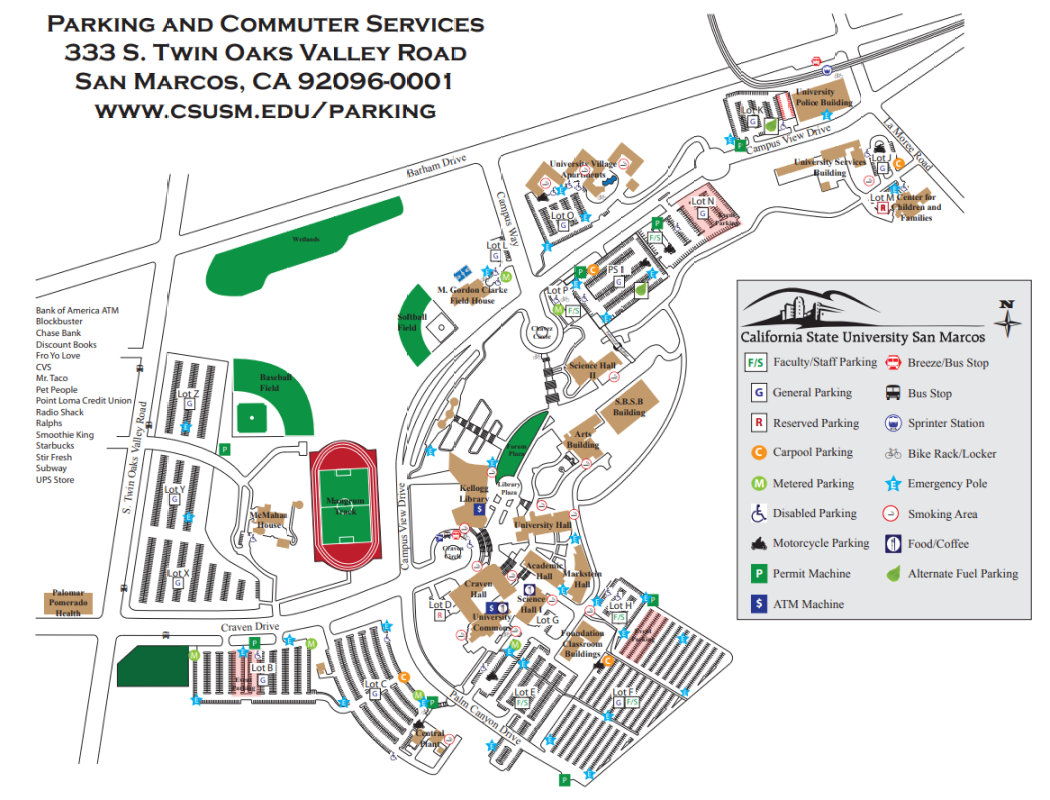
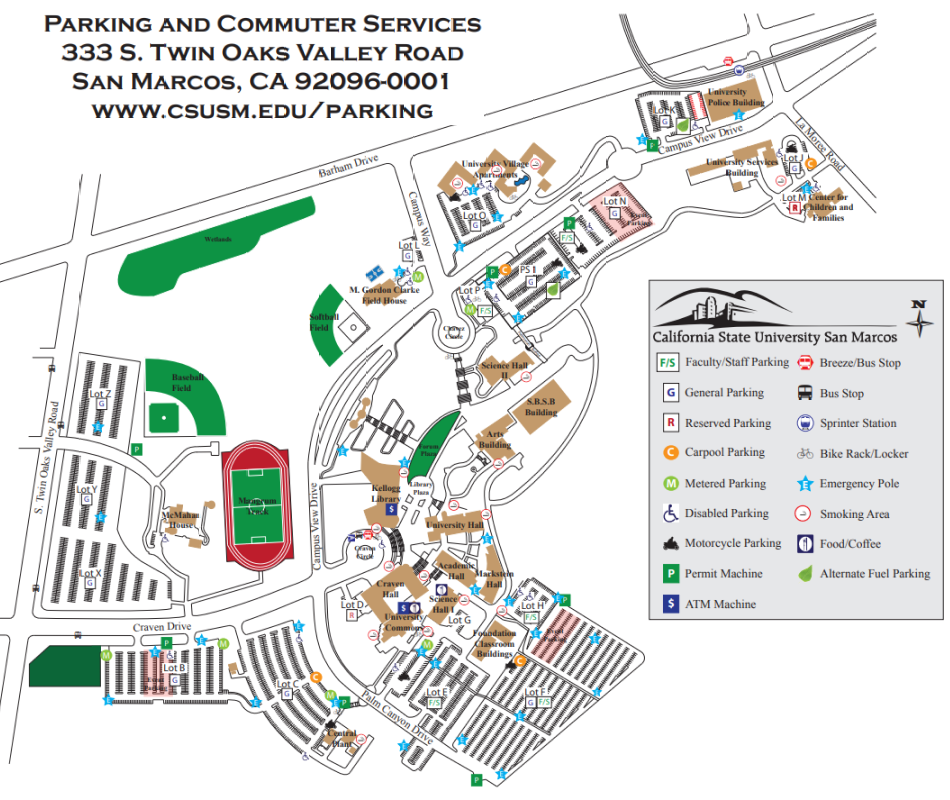
finishing the current UI

diff --git a/main.h b/main.h
@@ -3,9 +3,11 @@
 #define MAIN_H
 #include "WidgetComposite.h"
 #include "wx/wx.h"
+#include "wx/event.h"
 #include <string>
 #include <vector>
 #include <iostream>
+
 
 using namespace std;
 
@@ -43,24 +45,36 @@ private:
 	}
 	void buildParkingMap()
 	{
-		
 		main::SetMaxSize(wxSize(1200, 830));
 		main::SetMinSize(wxSize(1200, 830));
 		main::SetSize(1200, 830);
+		buildSidePanel();
 		parkingPicHandler = new wxPNGHandler;
 		wxImage::AddHandler(parkingPicHandler);
-		ParkingPic = new wxStaticBitmap(this, wxID_ANY, wxBitmap("images/parking-map.PNG", wxBITMAP_TYPE_PNG), wxPoint(150, 00), wxSize(1050, 800));
-		parkinglotIcon.push_back(new wxBitmapButton(this, 1002, wxBitmap("images/mapmarker.PNG", wxBITMAP_TYPE_PNG),wxPoint(320,350), wxSize(41,50), wxBG_STYLE_TRANSPARENT));
+		ParkingPic = new wxStaticBitmap(this, wxID_ANY, wxBitmap("images/parking-map.PNG", wxBITMAP_TYPE_PNG), wxPoint(250, 00), wxSize(950, 800));
+		parkinglotIcon.push_back(new wxBitmapButton(this, 1002, wxBitmap("images/mapmarker.PNG", wxBITMAP_TYPE_PNG),wxPoint(330,355), wxSize(41,50), wxBG_STYLE_TRANSPARENT));
 		parkinglotIcon.push_back(new wxBitmapButton(this, 1003, wxBitmap("images/mapmarker.PNG", wxBITMAP_TYPE_PNG), wxPoint(320, 450), wxSize(41, 50), wxBG_STYLE_TRANSPARENT));
 		parkinglotIcon.push_back(new wxBitmapButton(this, 1004, wxBitmap("images/mapmarker.PNG", wxBITMAP_TYPE_PNG), wxPoint(320, 550), wxSize(41, 50), wxBG_STYLE_TRANSPARENT));
-		parkinglotIcon.push_back(new wxBitmapButton(this, 1005, wxBitmap("images/mapmarker.PNG", wxBITMAP_TYPE_PNG), wxPoint(380, 620), wxSize(41, 50), wxBG_STYLE_TRANSPARENT));
+		parkinglotIcon.push_back(new wxBitmapButton(this, 1005, wxBitmap("images/mapmarker.PNG", wxBITMAP_TYPE_PNG), wxPoint(395, 630), wxSize(41, 50), wxBG_STYLE_TRANSPARENT));
+		parkinglotIcon.push_back(new wxBitmapButton(this, 1006, wxBitmap("images/mapmarker.PNG", wxBITMAP_TYPE_PNG), wxPoint(520, 660), wxSize(41, 50), wxBG_STYLE_TRANSPARENT));
+		parkinglotIcon.push_back(new wxBitmapButton(this, 1007, wxBitmap("images/mapmarker.PNG", wxBITMAP_TYPE_PNG), wxPoint(660, 660), wxSize(41, 50), wxBG_STYLE_TRANSPARENT));
+		parkinglotIcon.push_back(new wxBitmapButton(this, 1008, wxBitmap("images/mapmarker.PNG", wxBITMAP_TYPE_PNG), wxPoint(770, 660), wxSize(41, 50), wxBG_STYLE_TRANSPARENT));
+		parkinglotIcon.push_back(new wxBitmapButton(this, 1009, wxBitmap("images/mapmarker.PNG", wxBITMAP_TYPE_PNG), wxPoint(770, 560), wxSize(41, 50), wxBG_STYLE_TRANSPARENT));
+		parkinglotIcon.push_back(new wxBitmapButton(this, 1010, wxBitmap("images/mapmarker.PNG", wxBITMAP_TYPE_PNG), wxPoint(760, 250), wxSize(41, 50), wxBG_STYLE_TRANSPARENT));
+		parkinglotIcon.push_back(new wxBitmapButton(this, 1011, wxBitmap("images/mapmarker.PNG", wxBITMAP_TYPE_PNG), wxPoint(700, 190), wxSize(41, 50), wxBG_STYLE_TRANSPARENT));
 		for (int i = 0; i < parkinglotIcon.size(); i++)
 		{
 			parkinglotIcon[i]->Raise();
 			parkinglotIcon[i]->SetName(lotReferences[i]);
 			parkinglotIcon[i]->Bind(wxEVT_COMMAND_BUTTON_CLICKED, &main::OnLotClick, this);
 		}
+	}
+	void buildSidePanel()
+	{
+		for (int i = 0; i < lotReferences.size(); i++)
+		{
 
+		}
 	}
 	// building the popup lot frame based on the point of the button
 	void buildParkingLotDisplay(wxPoint point,wxString wxName)
@@ -69,13 +83,30 @@ private:
 		lot_frame->Show();
 		lot_frame->SetWindowStyle(wxSTAY_ON_TOP);
 		lotText = "Selected parking lot : " + wxName;
-		LotInfoText = new wxStaticText(lot_frame, wxID_ANY,lotText, wxPoint(100, 40), wxSize(300, 30));
-		xButton = new wxButton(lot_frame, 2, "X", wxPoint(278,0), wxSize(20, 20));
-		timeHourOptions = new wxComboBox(lot_frame, wxID_ANY, "0",wxPoint(100,200),wxSize(70,30));
-		timeHourOptions->Set(timeHourList);
-		timeMinuteOptions = new wxComboBox(lot_frame, wxID_ANY, "0", wxPoint(200, 200), wxSize(70, 30));
-		timeMinuteOptions->Set(timeMinuteList);
-		reservationConfirm = new wxButton(lot_frame, wxID_ANY, "Reserve Spot", wxPoint(75, 240), wxSize(150, 50));
+		// fix this later
+		xButton = new wxButton(lot_frame, 2, "X", wxPoint(278, 0), wxSize(20, 20));
+		HeaderHandlerPNG = new wxPNGHandler;
+		wxImage::AddHandler(HeaderHandlerPNG);
+		headerBG = new wxStaticBitmap(lot_frame, wxID_ANY, wxBitmap("images/headerBG.PNG", wxBITMAP_TYPE_PNG), wxPoint(00, 00), wxSize(278, 20));
+		LotInfoText = new wxStaticText(lot_frame, wxID_ANY, lotText, wxPoint(100, 40), wxSize(300, 50));
+		spotsTextField = new wxStaticText(lot_frame, wxID_ANY, buildAvailableSPots(wxName), wxPoint(30, 90), wxSize(300, 30));
+		if (checkAvailableSpots(availableSpots))
+		{
+			hourText = new wxStaticText(lot_frame, wxID_ANY, "Hours", wxPoint(80, 160), wxSize(50, 20));
+			minuteText = new wxStaticText(lot_frame, wxID_ANY, "Minutes", wxPoint(185, 160), wxSize(50, 20));
+			timeHourOptions = new wxComboBox(lot_frame, wxID_ANY, "1", wxPoint(80, 180), wxSize(70, 30));
+			timeHourOptions->Set(timeHourList);
+			timeHourOptions->SetLabel("1");
+			timeMinuteOptions = new wxComboBox(lot_frame, wxID_ANY, "0", wxPoint(180, 180), wxSize(70, 30));
+			timeMinuteOptions->Set(timeMinuteList);
+			timeMinuteOptions->SetLabel("0");
+			reserveReminder = new wxStaticText(lot_frame, wxID_ANY, "         Set a time to reserve a spot", wxPoint(40, 210), wxSize(200, 30));
+			reservationConfirm = new wxButton(lot_frame, 3, "Reserve Spot", wxPoint(75, 240), wxSize(150, 50));
+		}
+		else
+		{
+			noReserveText = new wxStaticText(lot_frame, wxID_ANY, "There are no reserved spots left for \n                        Lot " + wxName, wxPoint(50, 180), wxSize(300, 70));
+		}
 
 	}
 // Login screen widgets
@@ -93,9 +124,17 @@ public:
 public:
 	wxFrame* lot_frame = nullptr;
 	wxString lotText;
+	wxString pspotText;
+	wxString reservedSpots;
+	wxString availableSpots;
+	wxStaticBitmap* headerBG = nullptr;
+	wxStaticText* noReserveText = nullptr;
+	wxStaticText* reserveReminder = nullptr;
+	wxStaticText* hourText = nullptr;
+	wxStaticText* minuteText = nullptr;
 	wxStaticText* LotInfoText = nullptr;
 	wxStaticText* numOpenSpots = nullptr;
-	wxStaticText* spotsText = nullptr;
+	wxStaticText* spotsTextField = nullptr;
 	wxStaticText* reservedTime = nullptr;
 	wxComboBox* timeHourOptions = nullptr;
 	wxComboBox* timeMinuteOptions = nullptr;
@@ -103,11 +142,13 @@ public:
 	vector<wxString> timeMinuteList = {"0","15","30","45"};
 	wxButton* reservationConfirm = nullptr;
 	wxButton* xButton = nullptr;
-	vector<wxString> lotReferences = { "A","B","C","D","E","F","G","H" };
+	vector<wxString> lotReferences = { "A","B","C","D","E","F","G","H","I","J"};
+
 //parking map widgets
 public:
 	wxPNGHandler* parkingPicHandler = nullptr;
 	wxPNGHandler* parkingLotHandler = nullptr;
+	wxPNGHandler* HeaderHandlerPNG = nullptr;
 	vector<wxBitmapButton*>parkinglotIcon;
 	wxStaticBitmap* ParkingPic = nullptr;
 
@@ -123,7 +164,29 @@ public:
 		LPCWSTR sw = stemp.c_str();
 		OutputDebugString(sw);
 	}
+	bool checkAvailableSpots(wxString availableSpots)
+	{
+		if (wxAtoi(availableSpots) > 0)
+		{
+			return true;
+		}
+		else
+		{
+			return false;
+		}
+
+	}
+	wxString buildAvailableSPots(wxString wxLotName)
+	{
+		//replace function here to get lot information
+		reservedSpots = "30";
+		availableSpots = "10";
+		pspotText = "The detailed information for this available spot is: \n   Available spots: " + reservedSpots + wxString(" Reserved spots: ") + availableSpots;
+		return pspotText;
+	}
+
 	void OnLoginSubmit(wxCommandEvent& evt);
+	void OnReserveClick(wxCommandEvent& evt);
 	void OnLotClick(wxCommandEvent& evt);
 	void onClickX(wxCommandEvent& evt)
 	{

diff --git a/main.cpp b/main.cpp
@@ -12,6 +12,7 @@ using namespace std;
 
 wxBEGIN_EVENT_TABLE(main, wxFrame)
 EVT_BUTTON(1001, OnLoginSubmit)
+EVT_BUTTON(3, OnReserveClick)
 EVT_BUTTON(2, onClickX)
 wxEND_EVENT_TABLE()
 unordered_map<char, ParkingLot*> Lots;
@@ -30,7 +31,8 @@ main::main() : wxFrame(nullptr, wxID_ANY, "Parking Lot Project - CSUSM")
 
 main::~main()
 {
-
+	main::Destroy();
+	parkinglotIcon.clear();
 }
 
 void main::OnLotClick(wxCommandEvent& evt)
@@ -55,6 +57,20 @@ void main::OnLoginSubmit(wxCommandEvent& evt)
 	}
 }
 
+void main::OnReserveClick(wxCommandEvent& evt)
+{
+	// here is the reserve click
+	if (checkAvailableSpots(availableSpots))
+	{
+		// this is the hours value
+		printToOutputStream(wxStringTostring(timeHourOptions->GetValue()));
+		// this is teh minutes value
+		printToOutputStream(wxStringTostring(timeMinuteOptions->GetValue()));
+		// fill this in to what to do with the time
+		reserveReminder->SetLabel("Successfully reserved a Spot for " + timeHourOptions->GetValue() + "h:" + timeMinuteOptions->GetValue()+"m");
+		reservationConfirm->Destroy();
+	}
+}
  /*Torsha - creating a placeholder for observer pattern related code
 class subscriber 
  {

diff --git a/parkingApp.h b/parkingApp.h
@@ -3,6 +3,7 @@
 #include "wx/wx.h"
 #include "main.h"
 
+
 class parkingApp : public wxApp
 {
 public:
